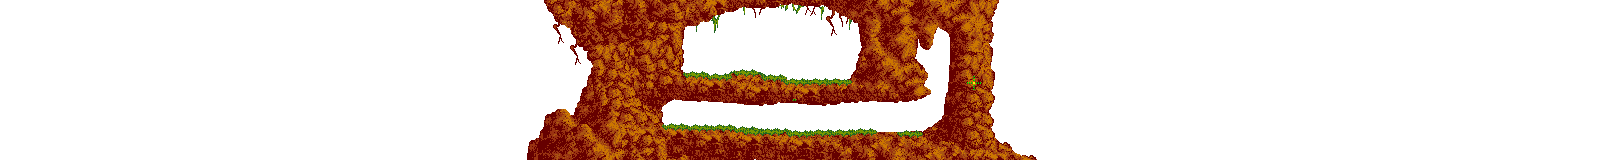
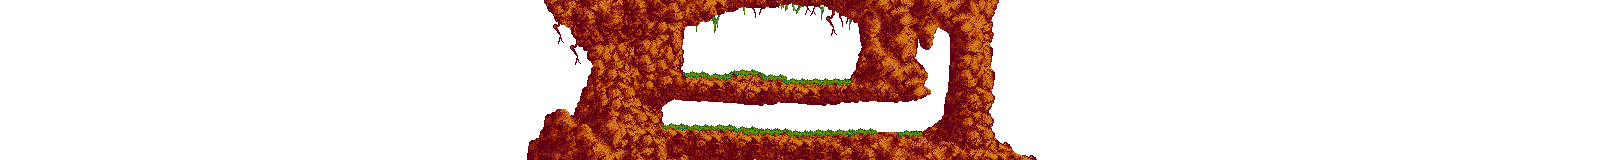
Bug fixes + new level

diff --git a/Level.cs b/Level.cs
@@ -51,6 +51,7 @@ namespace Lemmings2024
         public int[] AvailableActions => _availableActions;
         private Color _dirtColor;
         public Color DirtColor => _dirtColor;
+        private Color _maskColor = Color.Black;
 
         private ContentManager _content;
         private string _textureName;
@@ -156,9 +157,7 @@ namespace Lemmings2024
                     if (digTextureData[i].A > 0)
                     {
                         Color color = _maskTextureData[index];
-                        if (color.R > 0
-                            || !flipHorizontal && color.G > 0
-                            || flipHorizontal && color.B > 0)
+                        if (!IsDiggable(color, flipHorizontal))
                         {
                             return false;
                         }
@@ -192,8 +191,7 @@ namespace Lemmings2024
                     Color color = _maskTextureData[index];
                     if (startIndex + textureRelativeIndex < _textureData.Length)
                     {
-                        if (forceDig 
-                            || color.R == 0 && (color.G == 0 || flipHorizontal) && (color.B == 0 || !flipHorizontal))
+                        if (IsDiggable(color, flipHorizontal))
                         {
                             _textureData[index] = Color.Transparent;
                             _maskTextureData[index] = Color.Transparent;
@@ -221,6 +219,11 @@ namespace Lemmings2024
             UpdateTexture();
         }
 
+        public static bool IsDiggable(Color color, bool leftDirection)
+        {
+            return color.R == 0 && (color.G == 0 || leftDirection) && (color.B == 0 || !leftDirection);
+        }
+
         public void Build(Point position, int length)
         {
             if (position.Y >= _texture.Height)
@@ -232,7 +235,7 @@ namespace Lemmings2024
             for (int i = 0; i < length; i++)
             {
                 _textureData[startIndex + i] = _dirtColor;
-                _maskTextureData[startIndex + i] = new Color(0, 136, 0, 255);
+                _maskTextureData[startIndex + i] = _maskColor;
             }
             UpdateTexture();
         }

diff --git a/Lemmings2024.cs b/Lemmings2024.cs
@@ -266,7 +266,7 @@ namespace Lemmings2024
             _fontEffect = Content.Load<Effect>("File");
             _colorEffect = Content.Load<Effect>("PlainColor");
 
-            _currentLevel = new Level(Content, "level1.data");
+            _currentLevel = new Level(Content, "level12.data");
             SetState(STATE_MENU);
         }
 
@@ -331,7 +331,7 @@ namespace Lemmings2024
 
         private void OnLemmingExplode(Lemming explodingLemming)
         {
-            _currentLevel.Dig(_explodeTexture, _explodeTextureData, new Point(explodingLemming.PixelPositionX - _explodeTexture.Width / 2, explodingLemming.PixelPositionY - _explodeTexture.Height / 2), forceDig: false);
+            _currentLevel.Dig(_explodeTexture, _explodeTextureData, new Point(explodingLemming.PixelPositionX - _explodeTexture.Width / 2, explodingLemming.PixelPositionY - _explodeTexture.Height / 2), forceDig: true);
         }
 
         private void OnLemmingStartDigLine(Lemming lemming)
@@ -397,6 +397,7 @@ namespace Lemmings2024
                 }
             }
 
+            Mouse.SetCursor(_mouseCursorMenu);
             CameraFade.FadeFrom(Color.Black, FADE_DURATION);
         }
 
@@ -437,6 +438,7 @@ namespace Lemmings2024
 
         private void PostGameEnter()
         {
+            Mouse.SetCursor(_mouseCursorMenu);
             CameraFade.FadeFromBlack(FADE_DURATION);
         }
 
@@ -555,7 +557,7 @@ namespace Lemmings2024
         private void OnHatchOpen()
         {
             StartSpawn();
-            //_lemmingLevel1MusicInstance.Play();
+            _lemmingLevel1MusicInstance.Play();
         }
 
         private void StartSpawn()

diff --git a/Lemming.cs b/Lemming.cs
@@ -656,8 +656,7 @@ namespace Lemmings2024
                 return;
             }
 
-            int offset = _currentScale.X > 0 ? 0 : SpriteSheet.FrameWidth - SpriteSheet.DefaultPivot.X * 2 - 1;
-            if (!IsWalkable(_currentLevel.GetMaskPixel(new Point(PixelPositionX + offset, PixelPositionY - CLIMBER_TEST))))
+            if (!IsWalkable(_currentLevel.GetMaskPixel(new Point(PixelPositionX, PixelPositionY - CLIMBER_TEST))))
             {
                 SetState(STATE_END_CLIMB);
             }
@@ -752,7 +751,7 @@ namespace Lemmings2024
         {
             Color groundColor;
 
-            int offsetX = PixelPositionX + BUILD_WIDTH / 2;
+            int offsetX = PixelPositionX + Math.Sign(_currentScale.X) * BUILD_WIDTH / 2;
             int indexInLevelTexture = IndexInLevelData(offsetX, PixelPositionY);
             groundColor = _currentLevel.MaskTextureData[indexInLevelTexture];
             if (IsWalkable(groundColor))

diff --git a/Oudidon/SpriteSheet.cs b/Oudidon/SpriteSheet.cs
@@ -228,13 +228,13 @@ namespace Oudidon
                 {
                     spriteEffects |= SpriteEffects.FlipHorizontally;
                     scale.X = -scale.X;
-                    origin.X = FrameWidth - origin.X;
+                    origin.X = FrameWidth - 1 - origin.X;
                 }
                 if (scale.Y < 0)
                 {
                     spriteEffects |= SpriteEffects.FlipVertically;
                     scale.Y = -scale.Y;
-                    origin.Y = FrameHeight - origin.Y;
+                    origin.Y = FrameHeight - 1 - origin.Y;
                 }
                 for (int i = 0; i < _layers.Count; i++)
                 {
